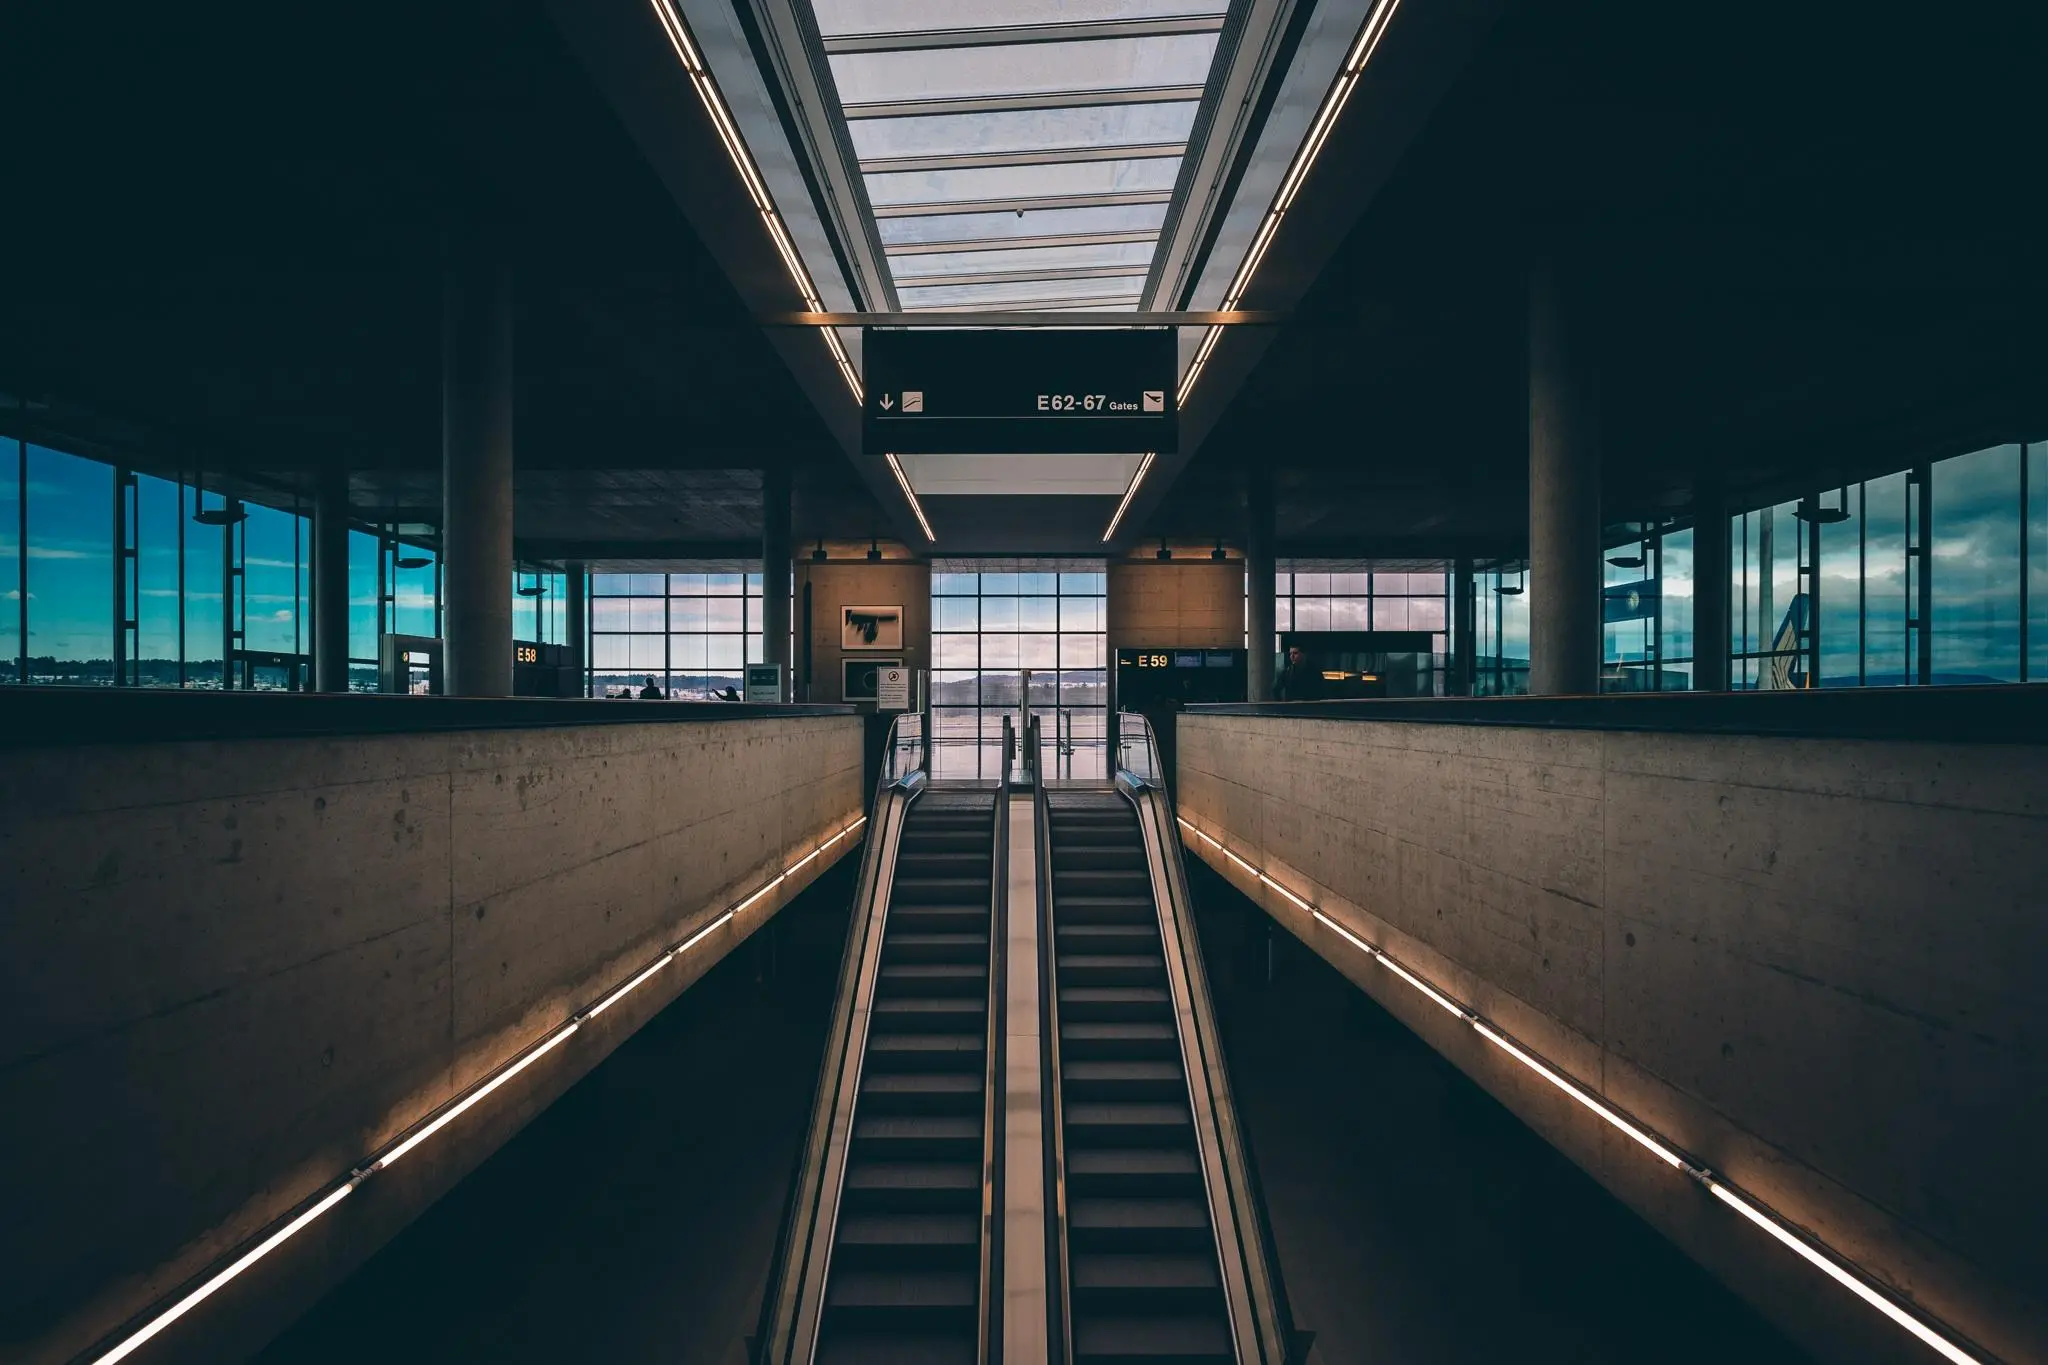
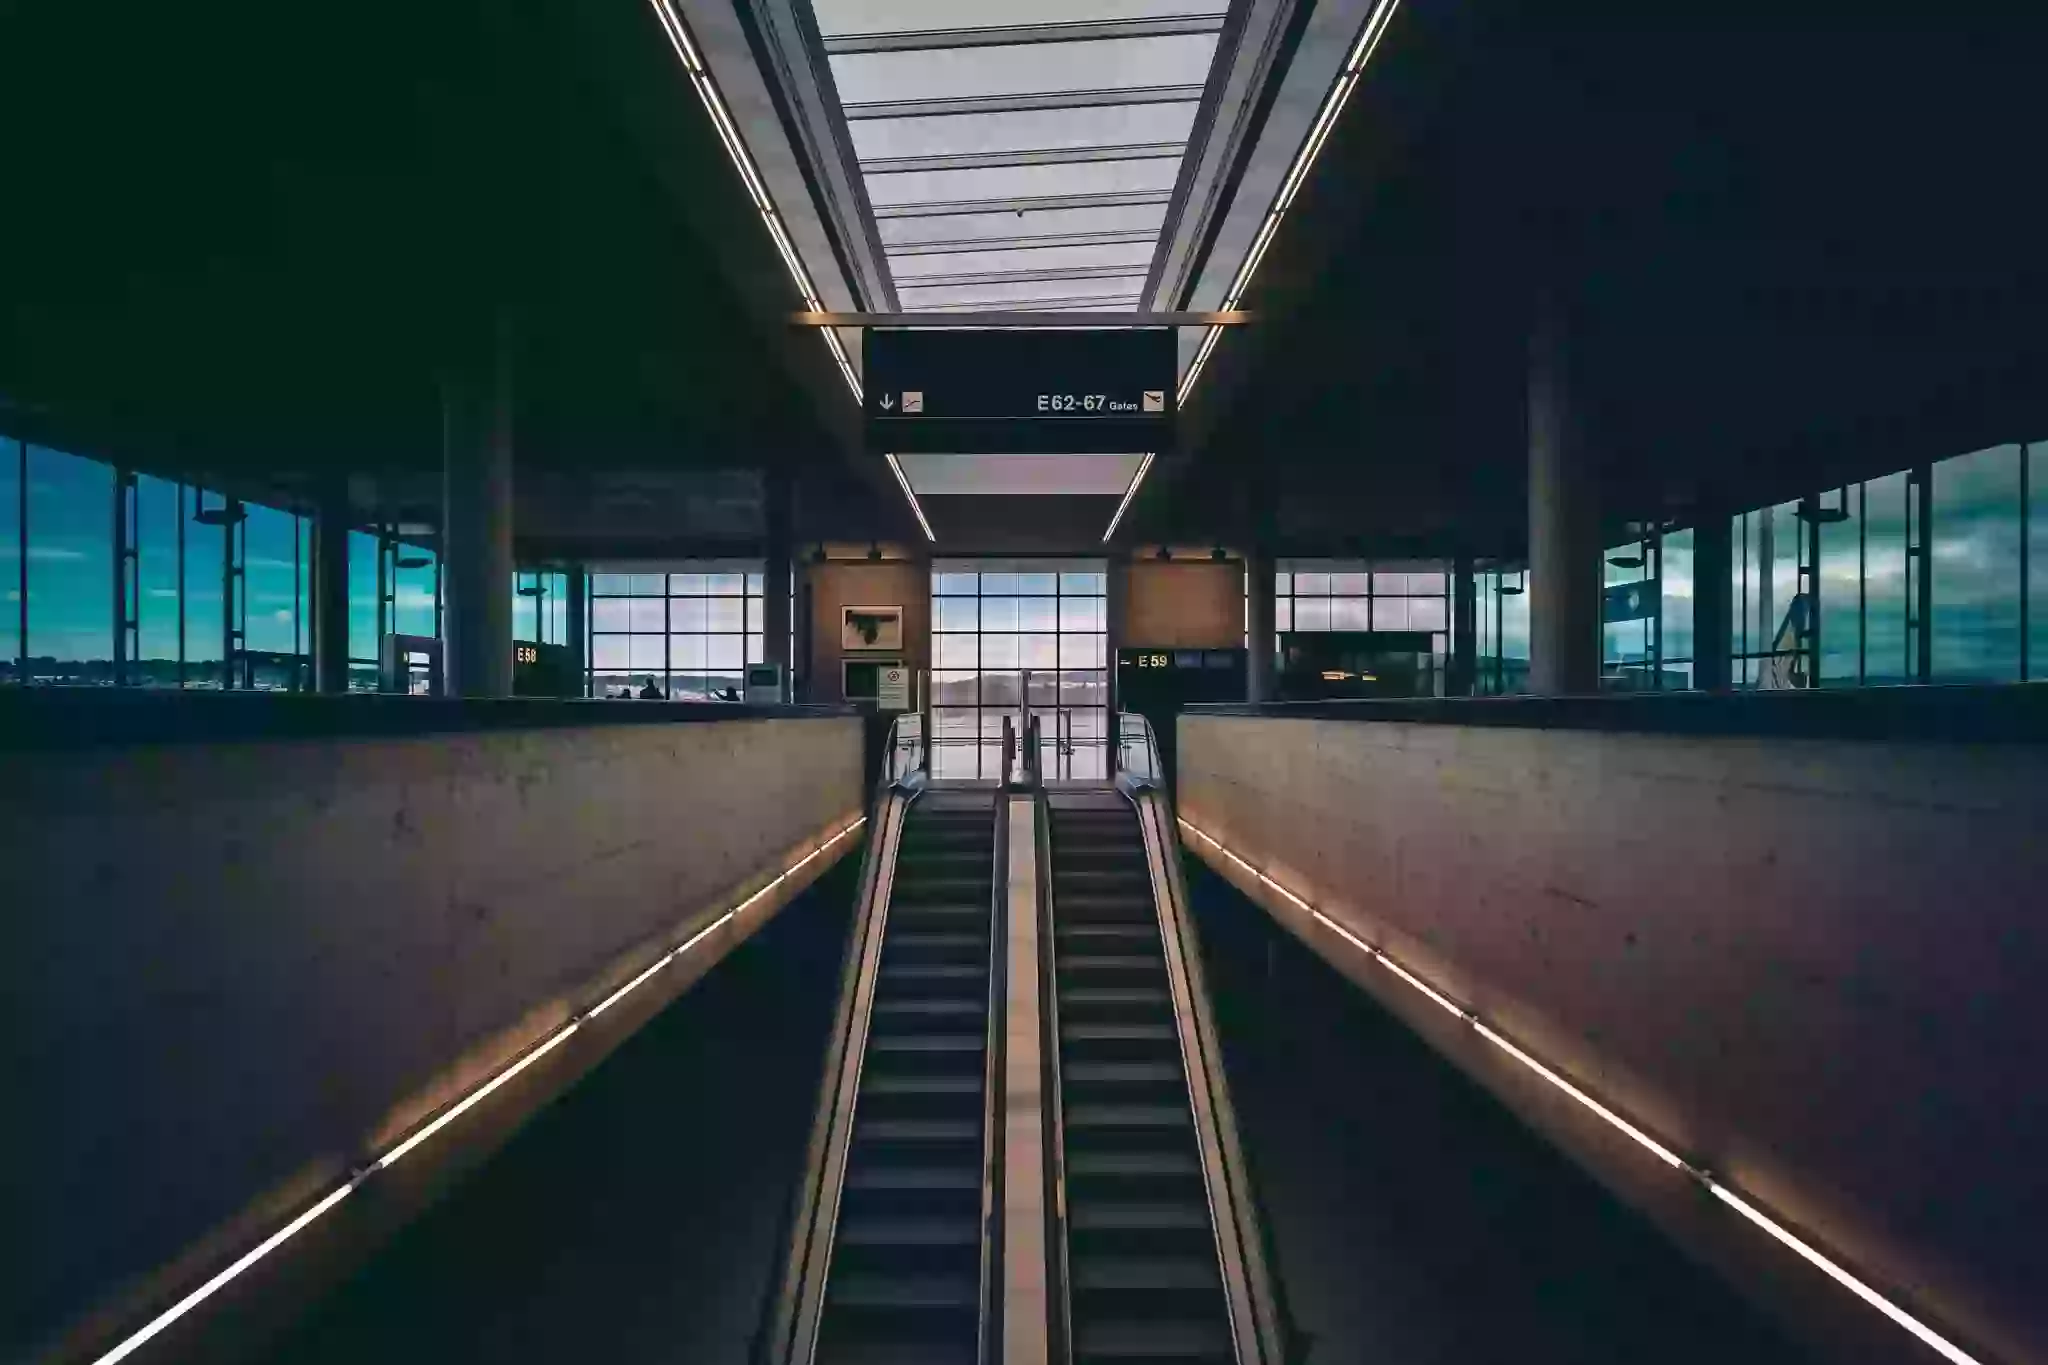
Release V3.5.0 Stable with compressed assets

diff --git a/Win-GUI/main.js b/Win-GUI/main.js
@@ -315,7 +315,7 @@ else {
 }
 });
 
-exec('"C:\\Program Files (x86)\\CryptoAlgo\\cryptoalgo.exe" --app=http://localhost:34235 --new-window --disable-extensions --disable-plugins', (error, stdout, stderr) => {
+exec(`"%localappdata%/Programs/CryptoAlgo/cryptoalgo.exe" --app=http://localhost:34235 --new-window --disable-extensions --disable-plugins`, (error, stdout, stderr) => {
     if (error) {
         return;
     }
